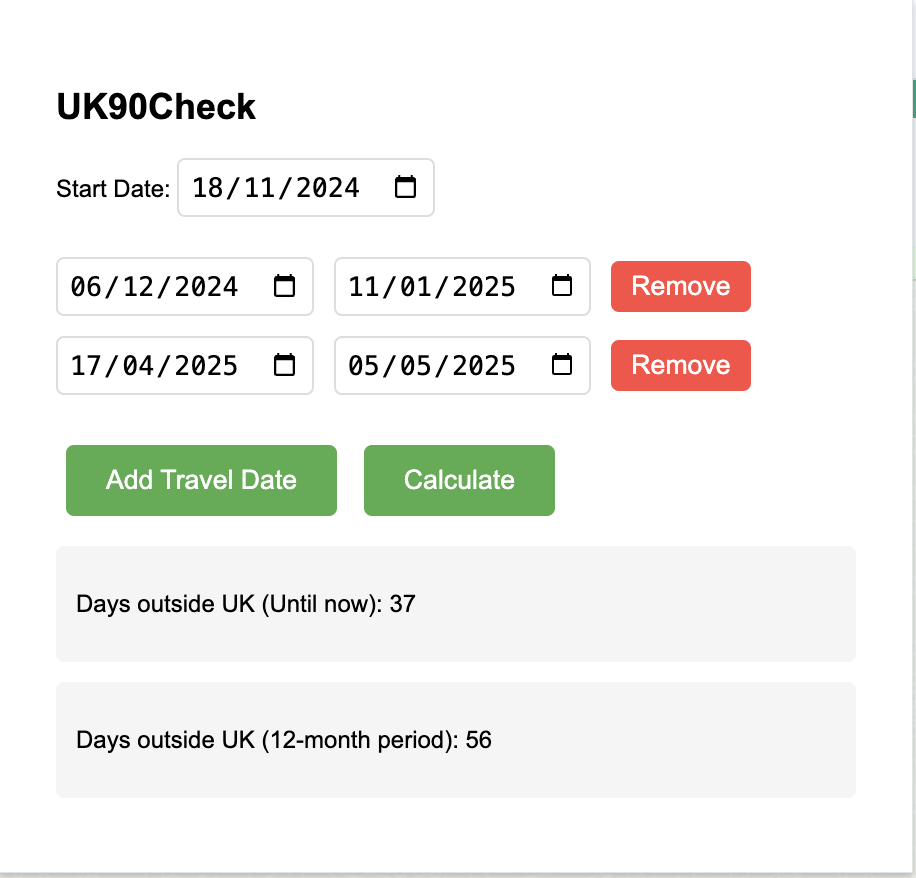
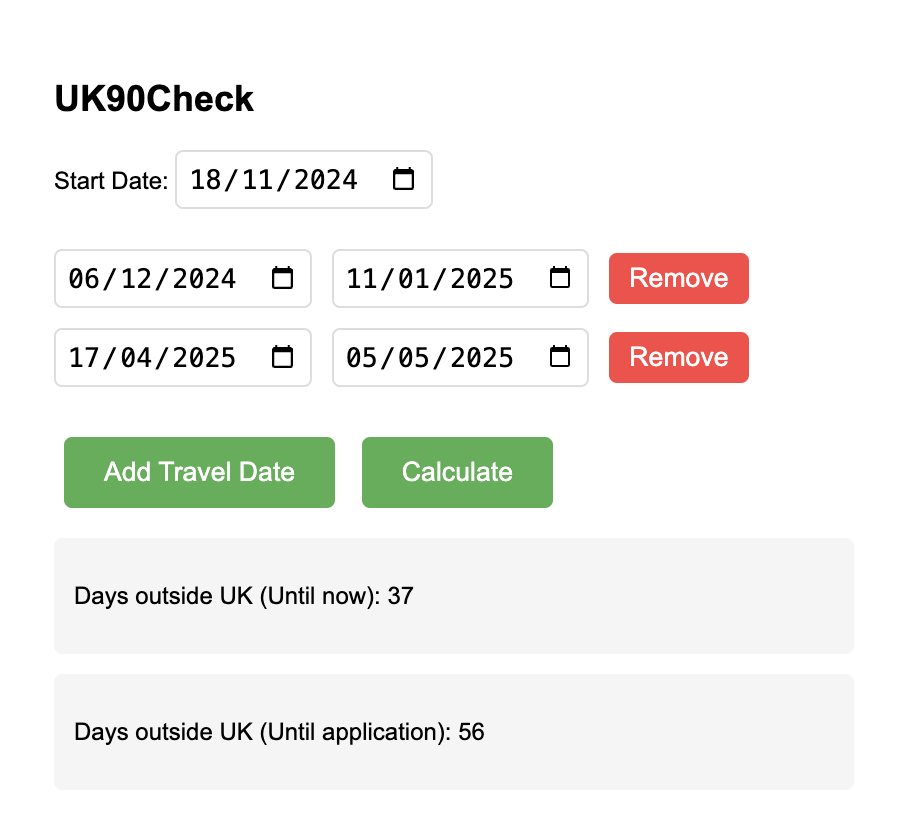
Update string for no of days in the entire 12 month period

diff --git a/popup.js b/popup.js
@@ -36,7 +36,7 @@ function addTravelEntry(startDate = '', endDate = '') {
 
 /**
  * Calculates and displays the number of days spent outside the UK
- * for both the current period and the full 12-month period
+ * for both the current period and until application
  */
 function calculateDays() {
   const startDate = new Date(document.getElementById('startDate').value);
@@ -54,9 +54,9 @@ function calculateDays() {
   const currentDays = calculateDaysInPeriod(startDate, today, travelEntries);
   document.getElementById('currentDays').textContent = currentDays;
 
-  // Calculate days for full 12-month period
-  const fullPeriodDays = calculateDaysInPeriod(startDate, twelveMonthsFromStart, travelEntries);
-  document.getElementById('fullPeriodDays').textContent = fullPeriodDays;
+  // Calculate days until application
+  const daysUntilApplication = calculateDaysInPeriod(startDate, new Date(startDate.getFullYear() + 1, startDate.getMonth(), startDate.getDate()), travelEntries);
+  document.getElementById('fullPeriodDays').textContent = daysUntilApplication;
 
   // Save data
   saveData();

diff --git a/jest.setup.js b/jest.setup.js
@@ -15,10 +15,10 @@ document.body.innerHTML = `
   <button id="addTravel">Add Travel Date</button>
   <button id="calculate">Calculate</button>
   <div id="currentPeriod">
-    <p>Days outside UK (current period): <span id="currentDays">0</span></p>
+    <p>Days outside UK (Until now): <span id="currentPeriodDays">0</span></p>
   </div>
   <div id="fullPeriod">
-    <p>Days outside UK (12-month period): <span id="fullPeriodDays">0</span></p>
+    <p>Days outside UK (Until application): <span id="fullPeriodDays">0</span></p>
   </div>
 `;
 

diff --git a/tests/popup.test.js b/tests/popup.test.js
@@ -121,7 +121,7 @@ describe('UK90Check Extension', () => {
       expect(document.getElementById('currentDays').textContent).toBe('15');
     });
 
-    it('should calculate days correctly for full 12-month period', () => {
+    it('should calculate days correctly until application', () => {
       // Set up test data
       document.getElementById('startDate').value = '2024-01-01';
       addTravelEntry('2024-02-01', '2024-02-15');

diff --git a/popup.html b/popup.html
@@ -66,7 +66,7 @@
     <p>Days outside UK (Until now): <span id="currentDays">0</span></p>
   </div>
   <div class="period" id="fullPeriod">
-    <p>Days outside UK (12-month period): <span id="fullPeriodDays">0</span></p>
+    <p>Days outside UK (Until application): <span id="fullPeriodDays">0</span></p>
   </div>
   <script src="dist/popup.bundle.js"></script>
 </body>
